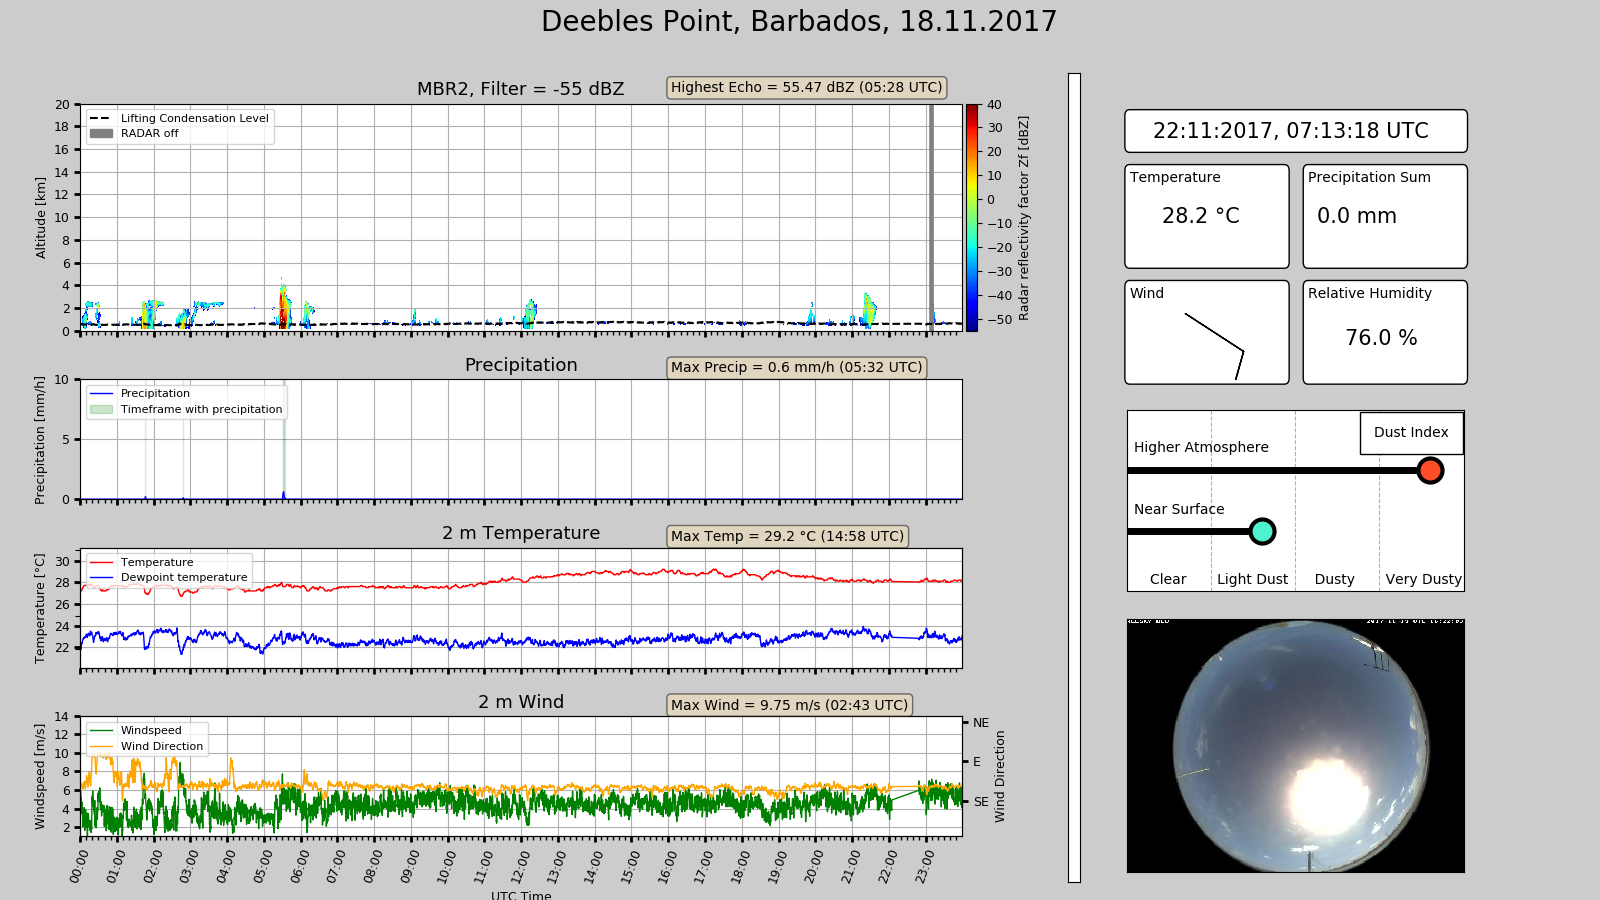
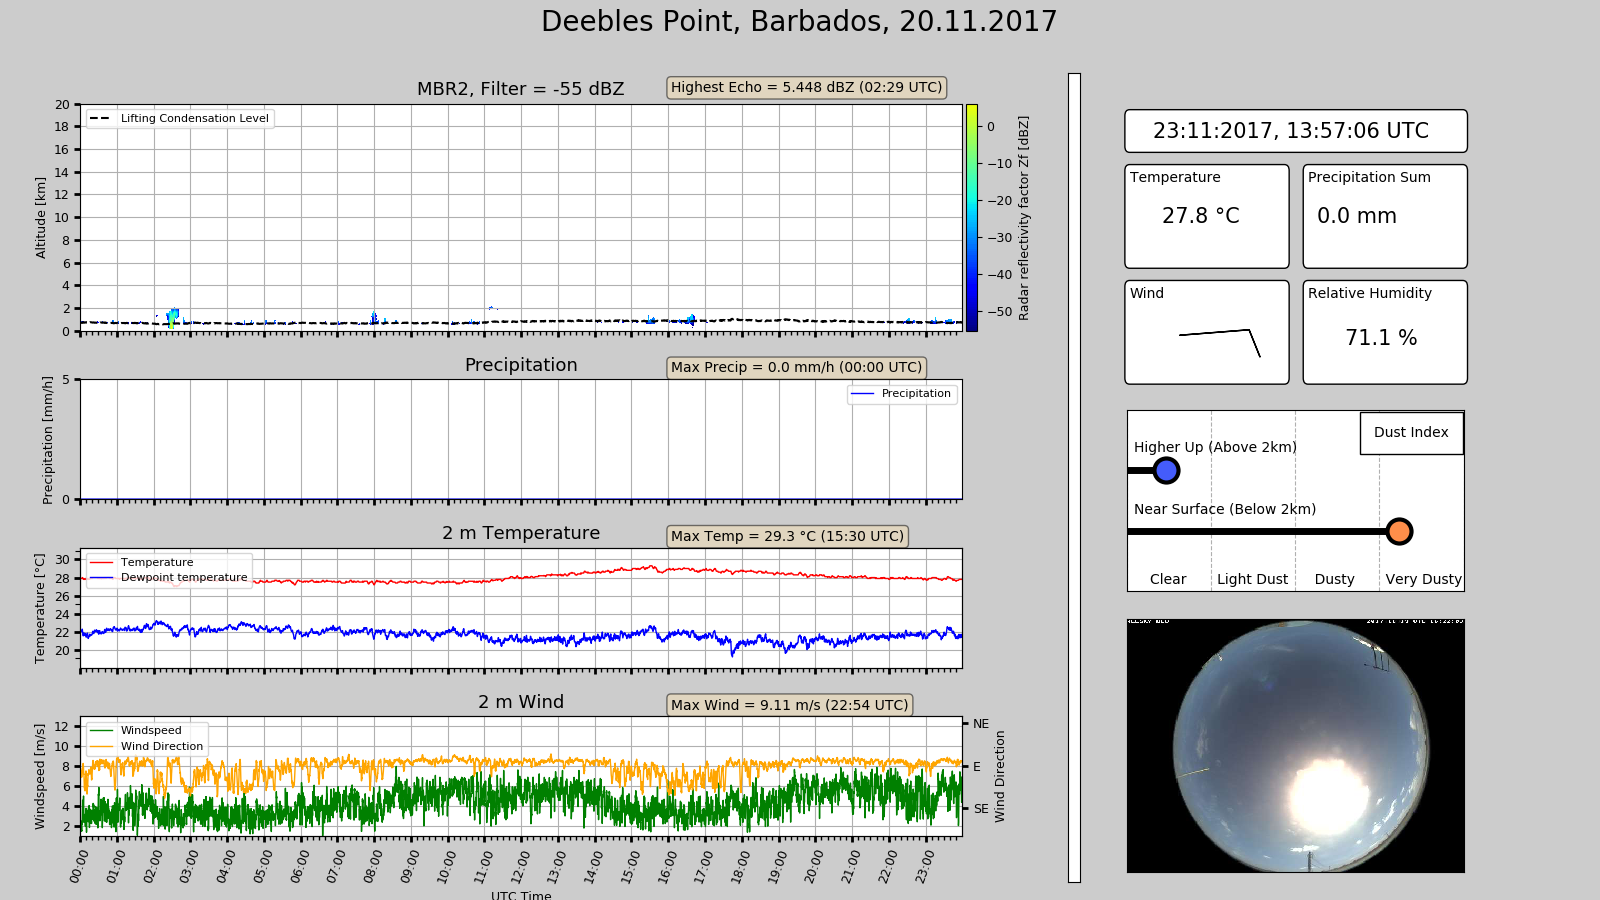
CHECKPOINT1. Implemented DI-Class.

diff --git a/DustIndex.py b/DustIndex.py
@@ -1,0 +1,49 @@
+class DustIndex:
+    from netCDF4 import Dataset
+    import pandas as pd
+    import numpy as np
+    from datetime import datetime as dt
+    from datetime import timedelta
+
+    def __init__(self,datestr,NC_PATH):
+        self.dataFrame = self.__openNcFile(datestr,NC_PATH)
+        self.DI_low,self.DI_high,self.updateTime = self.__getDI()
+
+
+    def __openNcFile(self,datestr,NC_PATH):
+        # Parameter:
+        NC_NAME = "/li{}.b532".format(datestr[2:])
+
+        # Get data from nc-file:
+        print(datestr)
+        print(NC_PATH+NC_NAME)
+        nc = self.Dataset(NC_PATH + NC_NAME)
+        dustIndexLow = nc.variables["DustIndexLowLayer"][:].copy()
+        dustIndexTotal = nc.variables["DustIndexTotal"][:].copy()
+        seconds = nc.variables["Time"][:].copy()
+        nc.close()
+
+        # Handle missing Values:
+        dustIndexTotal[self.np.where(dustIndexTotal > 1e30)] = self.np.nan
+        dustIndexLow[self.np.where(dustIndexLow > 1e30)] = self.np.nan
+
+        dustIndexHigh = self.np.subtract(dustIndexTotal,dustIndexLow)
+
+        # Shape time to the right format:
+        time = []
+        start_time = self.dt(int(datestr[:4]), int(datestr[4:6]), int(datestr[6:]), 0, 0, 0)
+        for t in seconds:
+            time.append(start_time + self.timedelta(seconds=int(t)))
+        time = self.np.asarray(time)
+
+        df = self.pd.DataFrame({'time': time, 'DIL': dustIndexLow, 'DIH': dustIndexHigh})
+        # df = df[::-1]  # reverse columns
+        return df
+
+    def __getDI(self):
+        __dil = self.dataFrame["DIL"][-30:].mean() # Each two minutes we get a measurement. --> last hour = the last 30 values
+        __dih = self.dataFrame["DIH"][-30:].mean()
+        __up_time = self.dataFrame["time"].tail(1).values[0]
+        __ts = self.pd.to_datetime(str(__up_time))
+        __d = __ts.strftime('%Y %m %d, %H:%M:%S')
+        return(__dil,__dih,__d)

diff --git a/Live_Quicklook.py b/Live_Quicklook.py
@@ -31,6 +31,7 @@ import glob
 from matplotlib.collections import PatchCollection
 from matplotlib.colors import Normalize
 from datetime import datetime as dt
+from DustIndex import DustIndex
 # %%
 # =========================
 # # Parser:
@@ -67,6 +68,7 @@ EndTime = 24
 
 nc_file = "/pool/OBS/BARBADOS_CLOUD_OBSERVATORY/Level_1/B_Reflectivity/Version_2/MMCR__MBR__Spectral_Moments__10s__155m-25km__"+date_str+".nc"
 nc_meteo = "/pool/OBS/BARBADOS_CLOUD_OBSERVATORY/Level_1/I_Meteorology_2m/" + year_str + month_str + "/Meteorology__Deebles_Point__2m_10s__"+year_str + month_str + day_str +".nc"
+nc_lidar = "/pool/OBS/ACPC/RamanLidar-LICHT/3_QuickLook/nc/ql{}/".format(yyyymmdd[2:6])
 image_path = "image/"
 
 save_figures = "/home/data/LIVE/PLOT/"
@@ -598,15 +600,15 @@ ax8.set_ylim(0, 2)
 # ======================================
 
 print("Plotting Dust Index...")
-high = 0.0045
-low = 0.002
+high = DustIndex(yyyymmdd,nc_lidar).DI_high
+low = DustIndex(yyyymmdd,nc_lidar).DI_low
 
-x_max = .005
+x_max = .01
 
 norm = Normalize(vmin=0,vmax=x_max)
 cmap=cm.get_cmap("rainbow")
 
-y_labels = ["Near Surface","Higher Atmosphere"]
+
 x_ticks = np.linspace(0,x_max,5)
 x_labels = ["Clear","Light Dust","Dusty","Very Dusty",""]
 
@@ -642,12 +644,12 @@ ax12.text(0.735, 0.835, 'Dust Index', transform=ax12.transAxes,
         verticalalignment='bottom', horizontalalignment='left',
         bbox={'facecolor':'white', 'alpha':1, 'pad':10})
 
-ax12.text(0.02, 0.41, 'Near Surface',
+ax12.text(0.02, 0.41, 'Near Surface (Below 2km)',
         verticalalignment='bottom', horizontalalignment='left',
         transform=ax12.transAxes,
         color='black', fontsize=box_font)
 
-ax12.text(0.02, 0.75, 'Higher Atmosphere',
+ax12.text(0.02, 0.75, 'Higher Up (Above 2km)',
         verticalalignment='bottom', horizontalalignment='left',
         transform=ax12.transAxes,
         color='black', fontsize=box_font)
